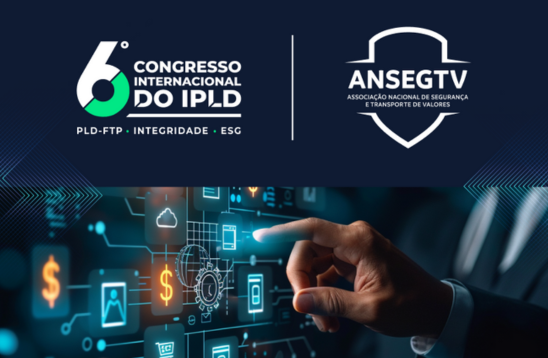
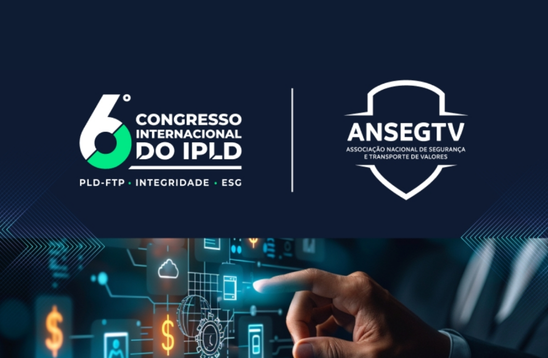
fix: tamanho da imagem na home fix: imagem com fundo errado

diff --git a/noticias/joiandro-carvalho-assume-a-presidencia-da-ansegtv/index.php b/noticias/joiandro-carvalho-assume-a-presidencia-da-ansegtv/index.php
@@ -102,7 +102,7 @@
                         </p>
 
                         <figure class="pull-right m-2 text-left">
-                                <img src="../../img/uploads/2026/02/joiandro-ansegtv.png" width="450" height="auto" alt="Joiandro Carvalho, novo presidente da ANSEGTV" class=" img-fluid">	
+                                <img src="../../img/uploads/2026/02/joiandro-ansegtv-1.png" width="450" height="auto" alt="Joiandro Carvalho, novo presidente da ANSEGTV" class=" img-fluid">	
                                 <figcaption</figcaption>
                         </figure>
 
